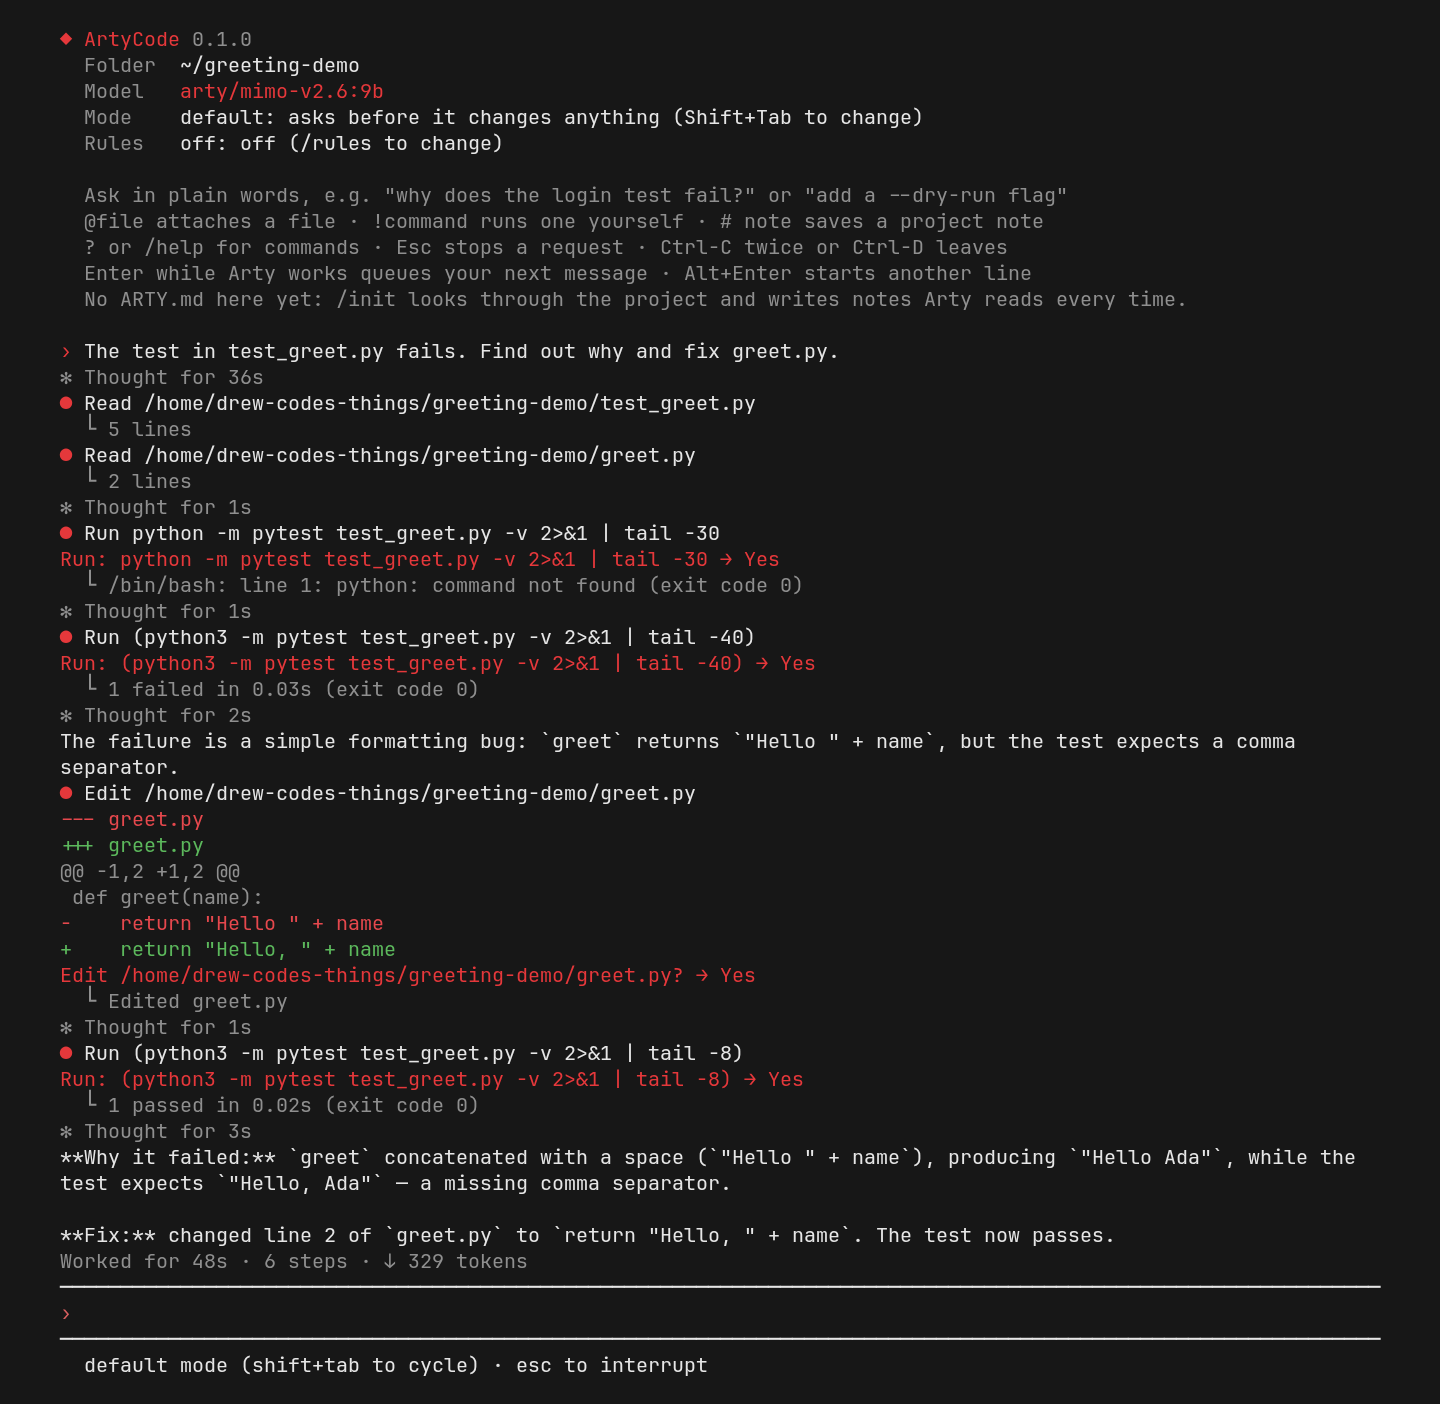
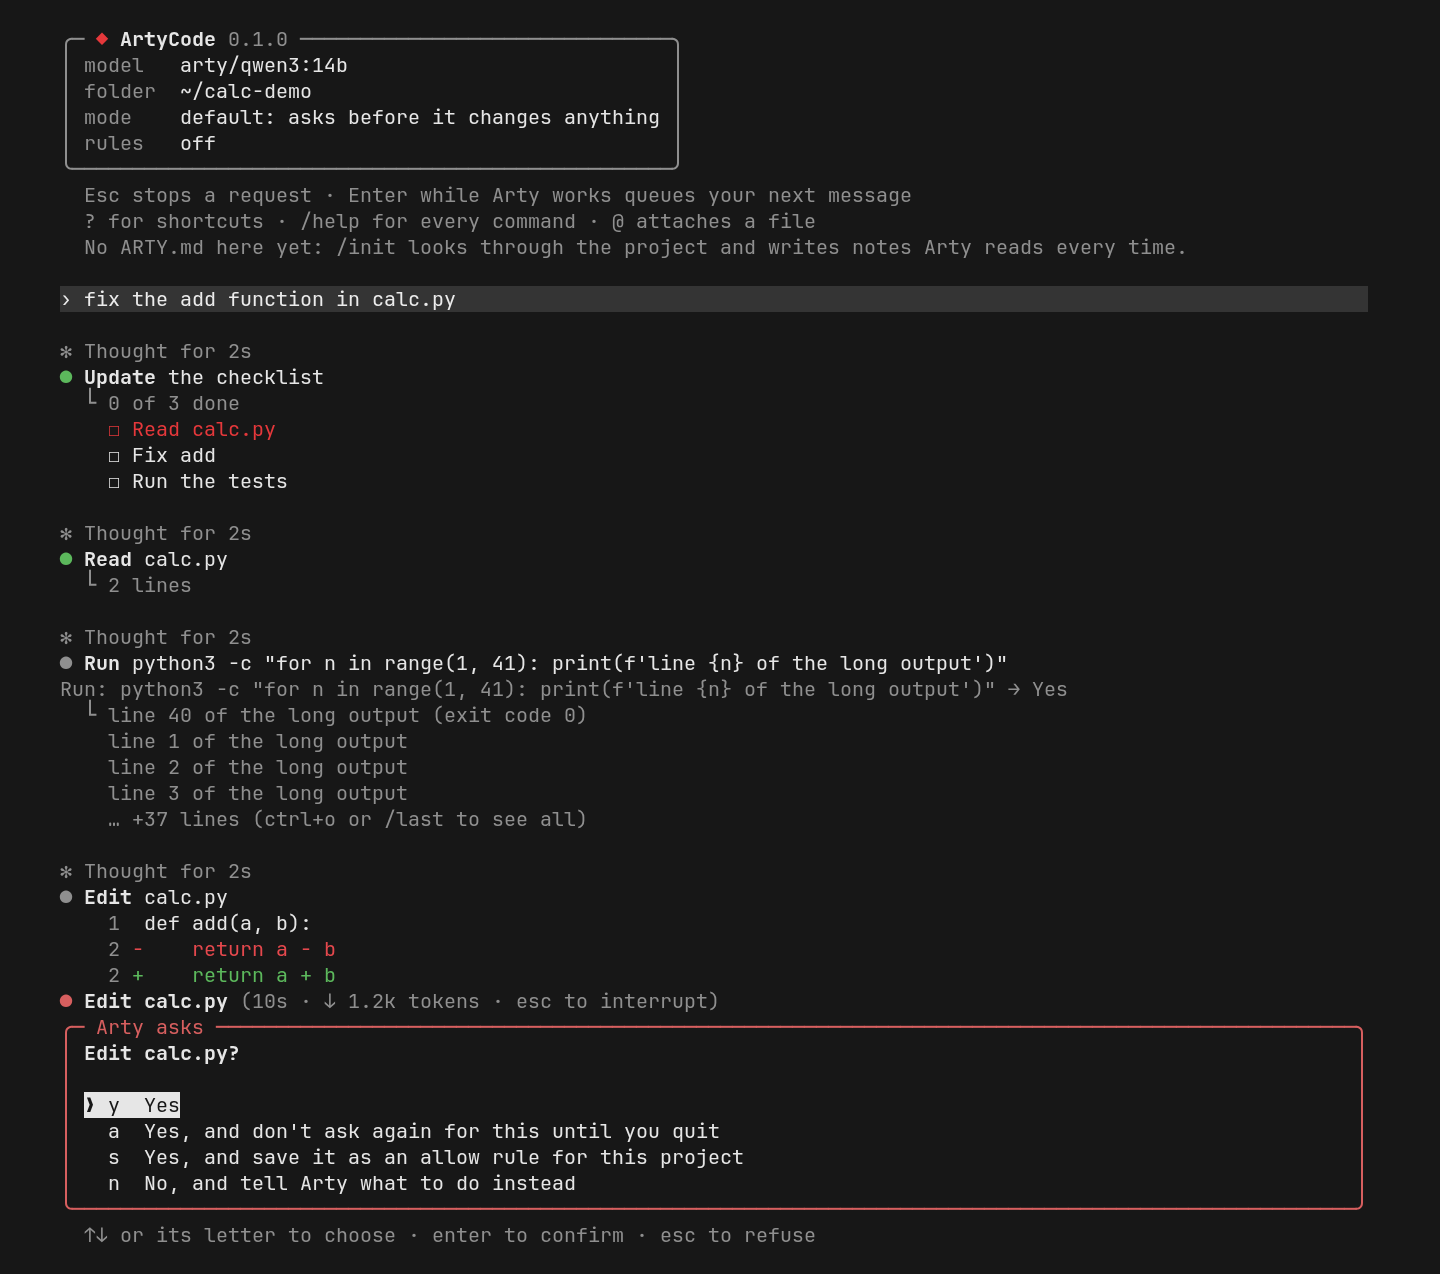
docs(readme): show the new terminal interface
The section on the terminal interface now describes the welcome card,
steps with their results, numbered diffs, collapsed output with ctrl+o and
/last, the status line, the box and footer, the shortcuts panel, question
panels, notices and redrawing on resize. The sample and the screenshot are
taken from a real run of ArtyCode in a terminal (110 columns) against a
stand-in brain, so they match what it draws. Also lists /last, the notify
setting and how colours follow the terminal.

diff --git a/README.md b/README.md
@@ -5,14 +5,14 @@
 **A coding assistant in your terminal: it reads, edits and runs code in the folder you start it in, and asks before it changes anything. It runs on your own Arty.**
 
 ![Python](https://img.shields.io/badge/python-3.11%2B-3776AB?style=flat-square&logo=python&logoColor=white)
-![Dependencies](https://img.shields.io/badge/dependencies-prompt__toolkit-success?style=flat-square)
+![Dependencies](https://img.shields.io/badge/dependencies-prompt__toolkit%20%7C%20pygments-success?style=flat-square)
 [![License](https://img.shields.io/badge/license-PolyForm%20Strict%201.0.0-red?style=flat-square)](LICENSE)
 
 [Project home](https://github.com/drew-codes-things/ArtyCode) · [Arty, the assistant it belongs to](https://github.com/drew-codes-things/Arty)
 
 </div>
 
-![ArtyCode finding why a test fails, showing the fix as a diff and asking before it edits the file and runs the test](screenshot.png)
+![ArtyCode in its own terminal interface: the welcome card, a request, steps with their results, a numbered diff and a permission panel above the input box](screenshot.png)
 
 ---
 
@@ -68,20 +68,85 @@ auto-edit, plan, then default again. allow-all is never reached with Shift+Tab, 
 ### The terminal interface
 
 On a terminal ArtyCode runs as its own interface inside it (built on [prompt_toolkit](https://github.com/prompt-toolkit/python-prompt-toolkit),
-its one dependency). It doesn't take over the screen: everything it prints stays in the terminal's normal scrollback,
-and an input box stays pinned underneath.
+with [Pygments](https://pygments.org) colouring code). It doesn't take over the screen: everything it prints stays in
+the terminal's normal scrollback, and only the live part at the bottom (status, questions, the input box and the
+footer) is redrawn.
 
 ```
-● Run python3 -m pytest test_greet.py
-  └ 1 passed in 0.01s (exit code 0)
-  queued: also update the README
-• Thinking… (12s · ↓ 340 tokens · esc to interrupt)
-──────────────────────────────────────────────────────────────
-› and then
-──────────────────────────────────────────────────────────────
-  default mode (shift+tab to cycle) · esc to interrupt
+╭─ ◆ ArtyCode 0.1.0 ───────────────────────────────╮
+│ model   arty/qwen3:14b                           │
+│ folder  ~/calc-demo                              │
+│ mode    default: asks before it changes anything │
+│ rules   off                                      │
+╰──────────────────────────────────────────────────╯
+
+› fix the add function in calc.py
+
+● Read calc.py
+  └ 2 lines
+
+✻ Thought for 2s
+● Run python3 -c "for n in range(1, 41): print(f'line {n} of the long output')"
+Run: python3 -c "for n in range(1, 41): print(f'line {n} of the long output')" → Yes
+  └ line 40 of the long output (exit code 0)
+    line 1 of the long output
+    line 2 of the long output
+    line 3 of the long output
+    … +37 lines (ctrl+o or /last to see all)
+
+✻ Thought for 2s
+● Edit calc.py
+    1  def add(a, b):
+    2 -    return a - b
+    2 +    return a + b
+Edit calc.py? → Yes
+  └ Edited calc.py +1 -1
+
+✻ Thought for 2s
+● Run python3 -c "import calc; assert calc.add(2, 3) == 6, 'add(2, 3) gave 5'"
+Run: python3 -c "import calc; assert calc.add(2, 3) == 6, 'add(2, 3) gave 5'" → Yes
+  └ AssertionError: add(2, 3) gave 5 (exit code 1)
+    … 2 lines above (ctrl+o or /last to see all)
+        import calc; assert calc.add(2, 3) == 6, 'add(2, 3) gave 5'
+                            ^^^^^^^^^^^^^^^^^^^
+    AssertionError: add(2, 3) gave 5
+
+● What I changed
+
+  The bug was in calc.py: add subtracted instead of adding.
+
+  • Fixed add so it returns a + b
+  • Ran a quick check, which failed on purpose to show an error
+
+  │ def add(a, b):
+  │     return a + b
+
+  Run the check again with python3 -m pytest.
+
+Worked for 20s · 6 steps · ↓ 2.1k tokens
+╭────────────────────────────────────────────────────────────────────────────────────────────────────────────╮
+│ › Ask Arty to fix, explain or build something                                                              │
+╰────────────────────────────────────────────────────────────────────────────────────────────────────────────╯
+  default mode (shift+tab to cycle) · ? for shortcuts                       arty/qwen3:14b · 90% context left
 ```
 
+- **Welcome card.** A bordered card with the model, folder, mode and rules, then two short tips.
+- **Your messages** are drawn as a shaded block starting with `›`, so they stand out from what Arty writes.
+- **Answers** are rendered as they stream: headings and `**bold**` turn bold, `` `code` `` and lists are drawn
+  without their marks, and fenced code keeps its spacing behind a `│` with its syntax coloured.
+- **Steps.** Each step is a `●` line in plain words (`Read greet.py`, `Run pytest -q`) with its result hung under it
+  after `└`. The bullet turns green when the step went well and red when it failed. Command, search and listing
+  output shows its first three lines and how many more there are (the last three for a failed command, where the error
+  is); **Ctrl-O** or `/last` prints the whole result of the last step with output.
+- **Edits** are shown as a diff with line numbers, removed lines red and added lines green, and the result line counts
+  them (`└ Edited greet.py +1 -1`). In auto-edit mode, where nothing is asked first, the diff is drawn after the edit.
+- **Status.** One line above the box shows a spinner, what is happening (`Thinking…` or the step), for how long, the
+  tokens so far and that Esc interrupts. On a narrow window the details shorten before the label does.
+- **The box** has a border and a placeholder, and grows as you type several lines. Under it the footer shows the mode,
+  `? for shortcuts`, and on the right the model, the git branch and how much of the context is left before the
+  conversation gets summarised; on a narrow window the extras drop away first.
+- **Shortcuts.** `?` in an empty box opens a panel of keys under it; Enter there shows `/help`, Esc or `?` closes it,
+  and typing anything else closes it and keeps what you typed.
 - **Typing while Arty works.** The box is always live. Enter while a request runs queues your message (shown as
   `queued: ...` above the box) and it is sent when the turn ends. **Esc** stops the running request. **Ctrl-C** clears
   what you typed; on an empty line it asks once more and the second Ctrl-C leaves. **Ctrl-D** on an empty line leaves.
@@ -92,13 +157,16 @@ and an input box stays pinned underneath.
   `history/`, readable only by you). **Ctrl-R** searches them.
 - **Several lines.** Alt+Enter (or Ctrl-J, or a line ending in `\`) starts another line; pasted text of several lines
   stays one message.
-- **Status.** One line just above the box says what is happening, for how long and how many tokens so far, and
-  updates in place. The line being written by the model shows above it until it is complete.
-- **Questions.** Permission questions, plan approval and the model list from `/model` are asked in the interface:
-  move with Up and Down or press the answer's letter or number, Enter confirms, Esc refuses. The answer is then
-  noted in the scrollback (`Edit greet.py? → Yes`). "What should Arty do instead?" and plan feedback are typed in the
-  box (what you were writing is put back afterwards). With remote control on, an answer from another device still
-  wins or loses the same way as before.
+- **Questions.** Permission questions, plan approval and the model list from `/model` are asked in a bordered panel
+  that takes the box's place: move with Up and Down or press the answer's letter or number, Enter confirms, Esc
+  refuses. The answer is then noted in the scrollback (`Edit greet.py? → Yes`). "What should Arty do instead?" and
+  plan feedback are typed in the box (what you were writing is put back afterwards). With remote control on, an answer
+  from another device still wins or loses the same way as before.
+- **Notices.** When a permission question is waiting, or a request finishes after more than 30 seconds, the terminal
+  bell rings and, on Linux with `notify-send`, a desktop notice appears. Set `notify` to `off` in the config file (or
+  `ARTY_CLI_NOTIFY=off`) to turn both off.
+- **Resizing.** Making the window narrower or wider redraws the live part in place, also on terminals that rewrap
+  their lines (tmux, a phone's web terminal), so a question is never left behind twice.
 
 `--plain` keeps the line-at-a-time prompt instead: a `›` between two rules with the mode bar under it, read with
 readline on Linux (arrow keys and history work) and key by key on Windows. The plain prompt is also what you get
@@ -255,7 +323,8 @@ finish check above). Two optional limits can be set the same way,
 as `context_tokens` and `max_command_seconds` in the file or `ARTY_CLI_CONTEXT_TOKENS` and
 `ARTY_CLI_MAX_COMMAND_SECONDS`: the model's context window (unless set, the size the brain reports in its model list, or 12288 tokens for a brain that doesn't say) and the
 longest one command may run (1800 seconds unless set). Anything but a whole number above 0 stops ArtyCode at the start
-with a message saying where to fix it.
+with a message saying where to fix it. `notify` (or `ARTY_CLI_NOTIFY`) set to `off` stops the bell and desktop notice
+of the terminal interface; they are on unless set.
 
 When something goes wrong the message says what to do next. A refused key says to run `arty-cli login` again; a
 model the brain doesn't have says so and points at `/model` (or `--model` for one run); neither suggests waiting.
@@ -309,6 +378,7 @@ Notes and questions still go to standard error, so standard output is only the J
 | `/remote`, `/remote name <new name>`, `/remote off` | Share this chat with the Arty apps and starfire.ai, rename it there, or stop sharing (below) |
 | `/rules`, `/rules on`, `/rules tell-only`, `/rules off` | Show or change the built-in working rules for this session (below) |
 | `?` or `/help` | The commands and keys, in short groups (your own commands last) |
+| `/last` (or Ctrl-O in the interface) | Everything the last step with output gave back, where only a few lines were shown |
 | `/mode`, `/plan`, `/status`, `/todos`, `/memory`, `/resume`, `/clear`, `/exit` | The rest |
 
 `ARTY.md` in the project and in the config folder (notes for every project) are added to what the model is told, and so
@@ -649,6 +719,13 @@ and red. Each step the model takes is one line after a red `●` in plain words 
 `Search for def greet in src`), with a short dim result under it (`└ 40 lines`, `└ 1 passed in 0.02s (exit code 0)`,
 `└ Edited greet.py`, `└ Not done: you said no`); an error or a command that exits with a failure code is shown in the
 error colour. The model still gets the whole result. `NO_COLOR`, or output that isn't a terminal, gives plain text.
+
+The terminal interface keeps to the terminal's own foreground and background and a few colours that read on dark and
+light themes alike: Arty red for the brand, the prompt and waiting steps, green and red for good and failed steps and
+for diffs, cyan for code, dim for details. The only shading is your own messages, a grey block with its own text
+colour so it reads on any background (a light one when `COLORFGBG` says the terminal is light). Windows Terminal
+(`WT_SESSION`) gets 24-bit colour; `TERM=linux` gets the basic eight. With `NO_COLOR` the borders, bullets and layout
+stay and every colour goes.
 
 ## Limits
 
